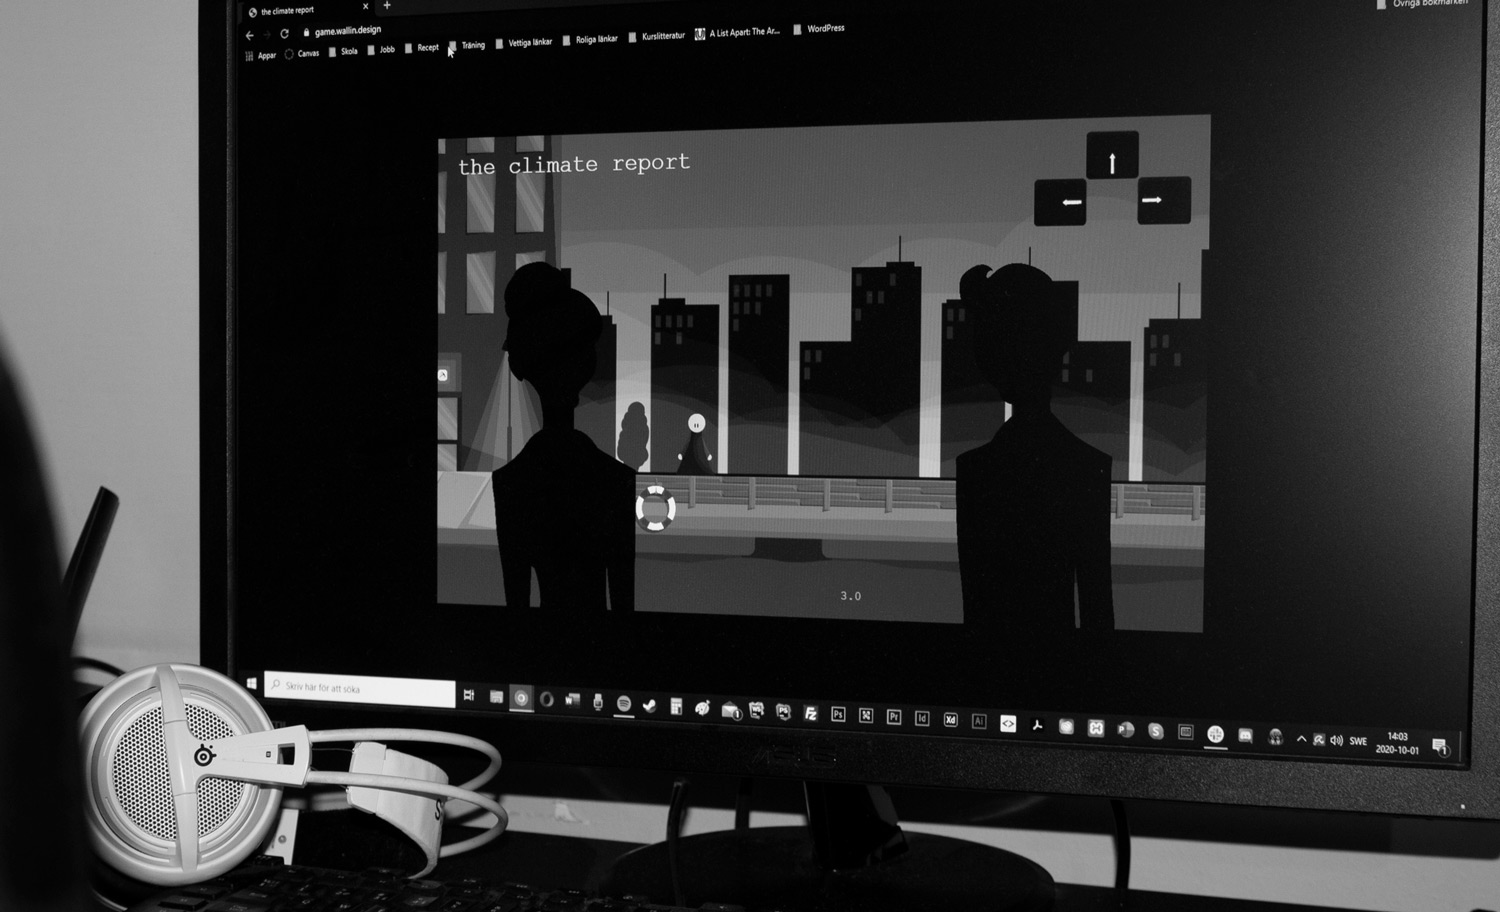
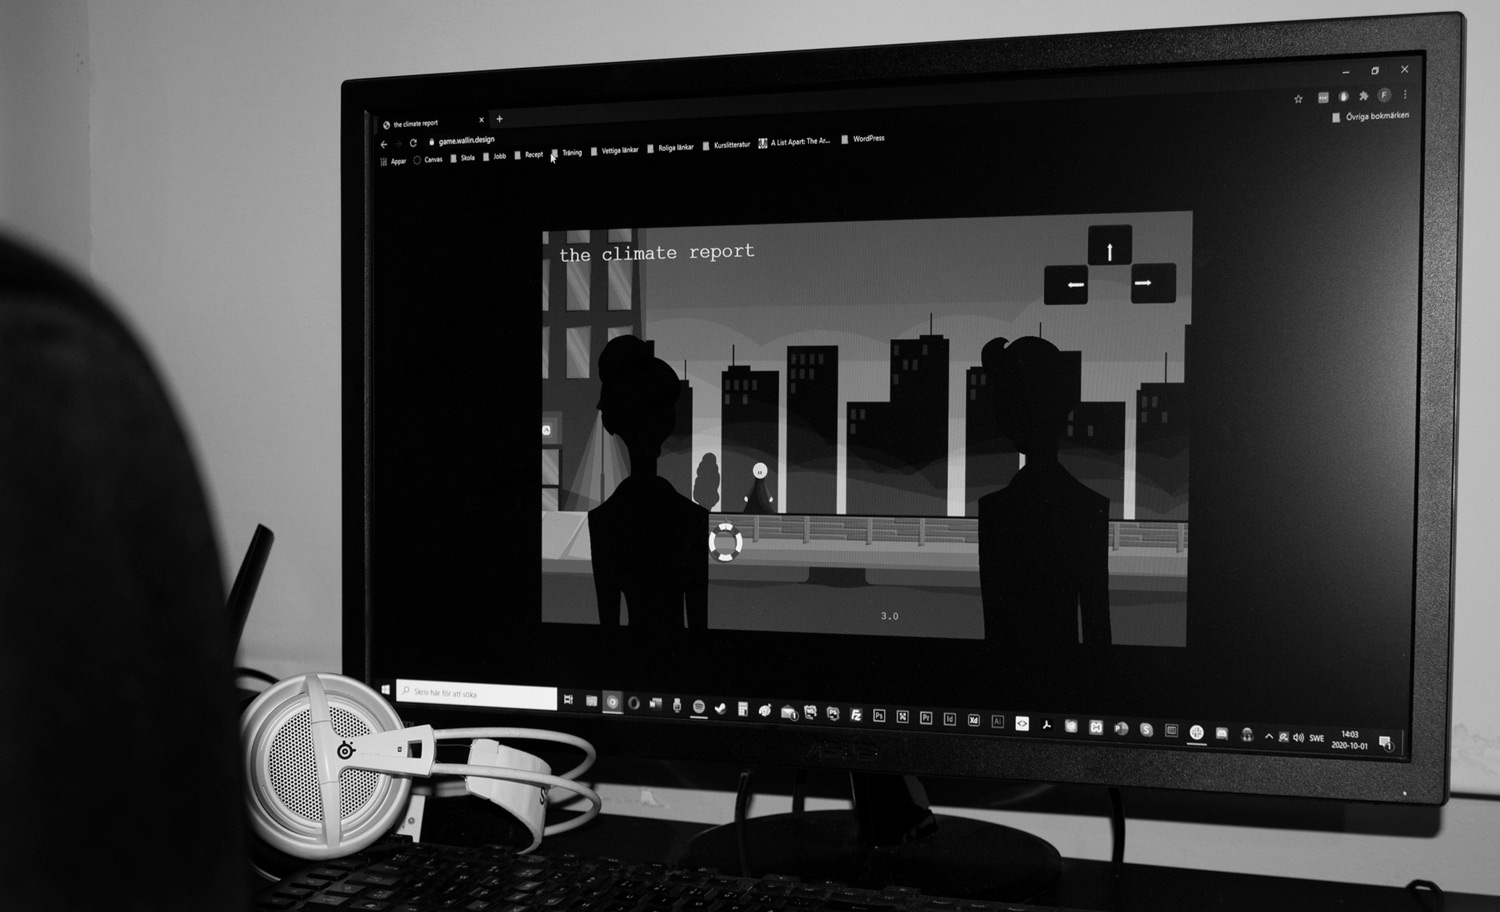
change image for the climate report

diff --git a/src/components/TheShowcase.vue b/src/components/TheShowcase.vue
@@ -56,7 +56,7 @@ export default {
           diffAlignment: 'grid-align-right',
         },
         {
-          src: require('../assets/the-climate-report.jpg'), // Needs another image
+          src: require('../assets/the-climate-report.jpg'),
           thinTitle: 'The',
           boldTitle: ' Climate Report',
           type: 'game',
